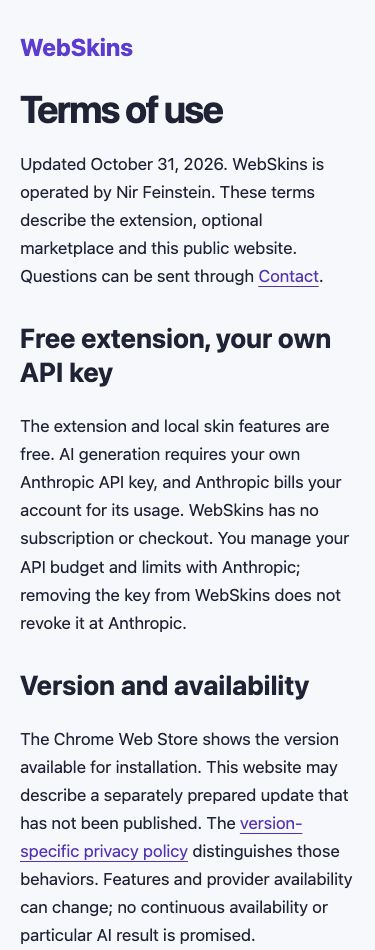
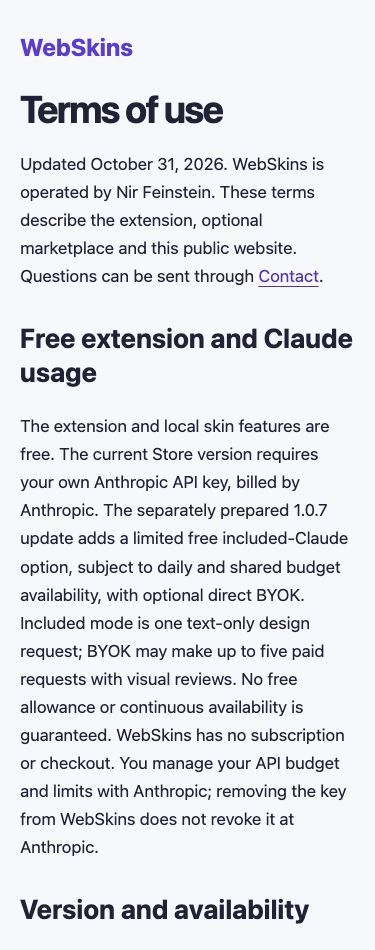
Accept included CSS service and version-specific website policy

Changed region(s): [[0.0587, 0.4579, 0.9387, 1.0], [0.0587, 0.3663, 0.2933, 0.4274], [0.5573, 0.3358, 0.9387, 0.3663]]

diff --git a/READINESS.md b/READINESS.md
@@ -23,7 +23,7 @@ Every row serves [GOAL.md](GOAL.md) and portfolio PT07. Done is verified, cut, o
 | G5 |1.0.6 replacement candidate package and source workflow | verified | All22 extension tests, synthetic backend ownership/restore, clean installs/build and both runtime audits pass in disposable source copy. Candidate ZIP matches all13 files, manifest differs from1.0.5 only in version, accepted dist/ZIP unchanged. [Candidate](qa/store-candidate.md) | [Goal](GOAL.md) |
 | R1 | Publish the version-aware privacy document on existing API | verified | Existing rollout SUCCESS; public health/backup200, exact current privacy and375/1440 version-disclosure checks pass without external requests or page errors. [Public release/rollback](qa/privacy-release.md) | [Goal](GOAL.md) |
 | G4 | Hosted CI execution | owner | Existing shared Actions budget; local source workflow must pass, no paid increase authorized | [Goal](GOAL.md) |
-| O1 | Upload checked replacement1.0.6 ZIP and prepared listing/privacy text; Submit for Review | owner | Same pending owner action, not requested again. [Replacement details](qa/store-candidate.md), [coordinator guide](/Users/nirfeinstein/Documents/ChatGPT/almost%20finished%20projects%20+%20marketing/artifacts/production-readiness-2026-10-26/webskins-store-upload-guide.html). Browser policy blocks automated developer-console operation | [Goal](GOAL.md) |
+| O1 | Complete installed1.0.7 acceptance, then upload its accepted ZIP to the existing Store item | owner | The earlier1.0.6 upload is superseded; do not submit it. Keep installed1.0.5/dist intact. Owner-only candidate load and later Store submission will be staged by the coordinator, one action at a time. [Guide](</Users/nirfeinstein/Documents/ChatGPT/almost finished projects + marketing/artifacts/production-readiness-2026-10-26/webskins-store-upload-guide.html>). Browser policy blocks automated extension management/developer-console operation | [Goal](GOAL.md) |
 | W1 | Store review and public replacement publication | waiting | Check public listing day after owner submission, at most daily; existing public1.0.2 remains separate | [Goal](GOAL.md) |
 
 ## October30 analytics request
@@ -56,7 +56,7 @@ Every row serves [GOAL.md](GOAL.md) and portfolio PT07. Done is verified, cut, o
 
 | ID | Flow / gate | Status | Evidence / next action |
 |---|---|---|---|
-| C1 | Choose limited included Claude or optional direct BYOK without leaking a key | building (Codex) | Separate1.0.7 candidate; existing installed1.0.5/dist and1.0.6 archive retained |
-| C2 | New per-mode/site consent, no screenshots or automatic review in included mode | building (Codex) | Single fixed-task request, no direct owner-key fallback; source/cancellation checks |
+| C1 | Choose limited included Claude or optional direct BYOK without leaking a key | verified | Separate1.0.7 candidate:25source cases, actual compiled popup and genuine bounded CSS API pass.13ZIP files match candidate-dist; manifest permissions unchanged. Installed1.0.5/dist and1.0.6 archive retained |
+| C2 | New per-mode/site consent, no screenshots or automatic review in included mode | verified | Single fixed-task request with no provider fallback/retry. Existing BYOK consent cannot authorize the hosted path; source/cancellation/recovery checks pass. Public version-specific policy deployment6a892d98 SUCCESS/health200 and actual375/1440 pages accepted |
 | C3 | Compiled popup success, exhaustion, cancel and settings recovery | verified | Actual400x600 candidate included/no-key, quota and BYOK recovery pass; [candidate](readiness/claude-beta.md). Genuine installed check remains |
-| C4 | Live included AI and updated Store distribution | todo | Existing shared gateway acceptance first; Store console remains owner-only |
+| C4 | Actual installed included AI and updated Store distribution | owner | Genuine published-origin CSS API200 uses800input/1241output; compiled400x600 UI passes. Actual installed1.0.7 check and final Store upload require the owner; no browser-policy workaround. Final package3555cb5562026c42d4dfcadba501bd6a28ea71e3910d7ea2e43fd6be22322fff. [Handoff](readiness/claude-beta.md) |

diff --git a/readiness/claude-beta.md b/readiness/claude-beta.md
@@ -7,3 +7,5 @@ Source:25 cases pass (`qa/claude-source.log`), including privacy, cancellation, 
 Actual existing backend Home/Privacy/Terms/Contact render at375/1440 without overflow/errors/provider events or message writes (`qa/contact-cost-ui.log`). Public copy distinguishes the current Store BYOK release from the unpublished1.0.7 offer. Candidate packaging preserves accepted installed `dist`1.0.5 and the previous1.0.6 ZIP: `npm run build:candidate && npm run package:candidate` writes only `candidate-dist` and `release/webskins-1.0.7.zip`.
 
 Next: after gateway acceptance/activation, verify a genuine included design/refinement/cancel on an owned safe page in the actual installed candidate. Store developer-console automation remains forbidden; the owner must load/submit the final accepted candidate. Do not repeat the earlier pending upload request or claim publication. Update the existing owner guide to the accepted1.0.7 package only after real included acceptance. Website rollout may publish the prospective version-specific privacy text without claiming Store availability.
+
+October31 coordinator acceptance: the real shared service returns a valid complete amber/navy CSS task with800input/1241output and no external CSS resource. This is a published-origin API check, not installed acceptance. All13 ZIP files match candidate-dist bidirectionally; manifest permissions match retained installed dist1.0.5. The1.0.7 ZIP SHA-256 is3555cb5562026c42d4dfcadba501bd6a28ea71e3910d7ea2e43fd6be22322fff. Prospective version-specific website deployment6a892d98 is SUCCESS/health200; all four public pages pass375/1440 without errors, writes or vendor events. Existing contact/analytics/data are preserved. Only owner installed acceptance/distribution remains; the old1.0.6 upload guide is visibly archived to prevent a stale submission.
